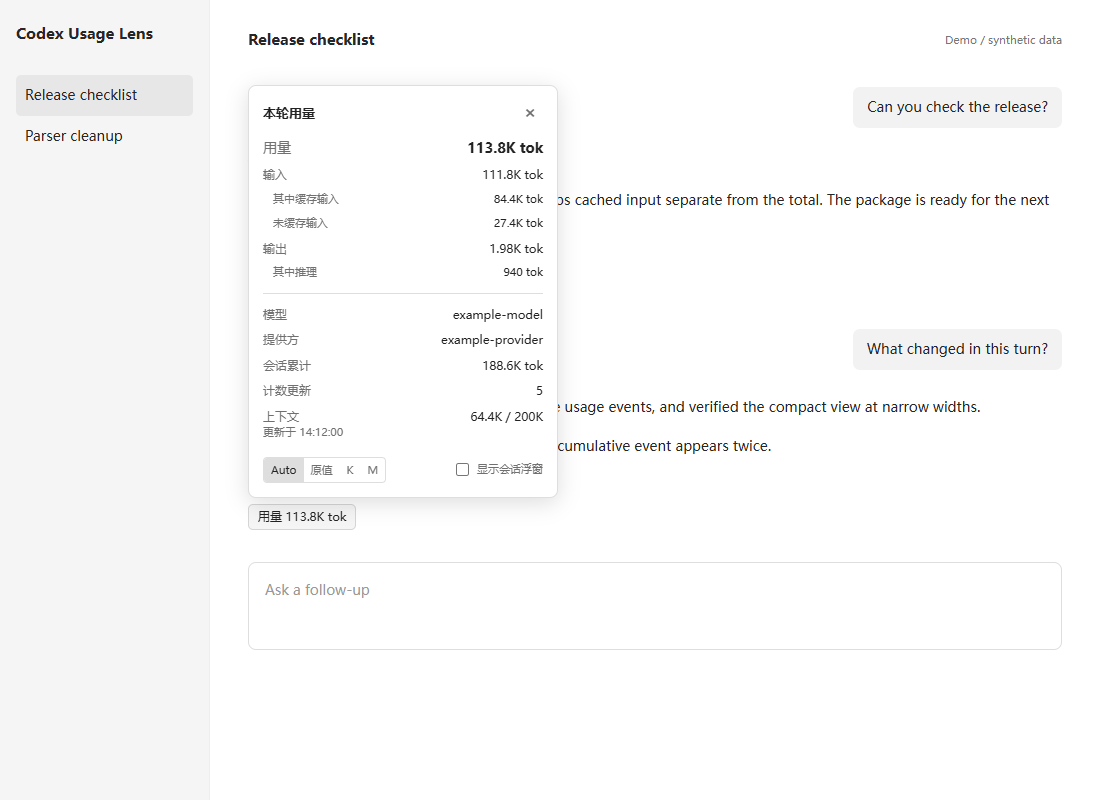
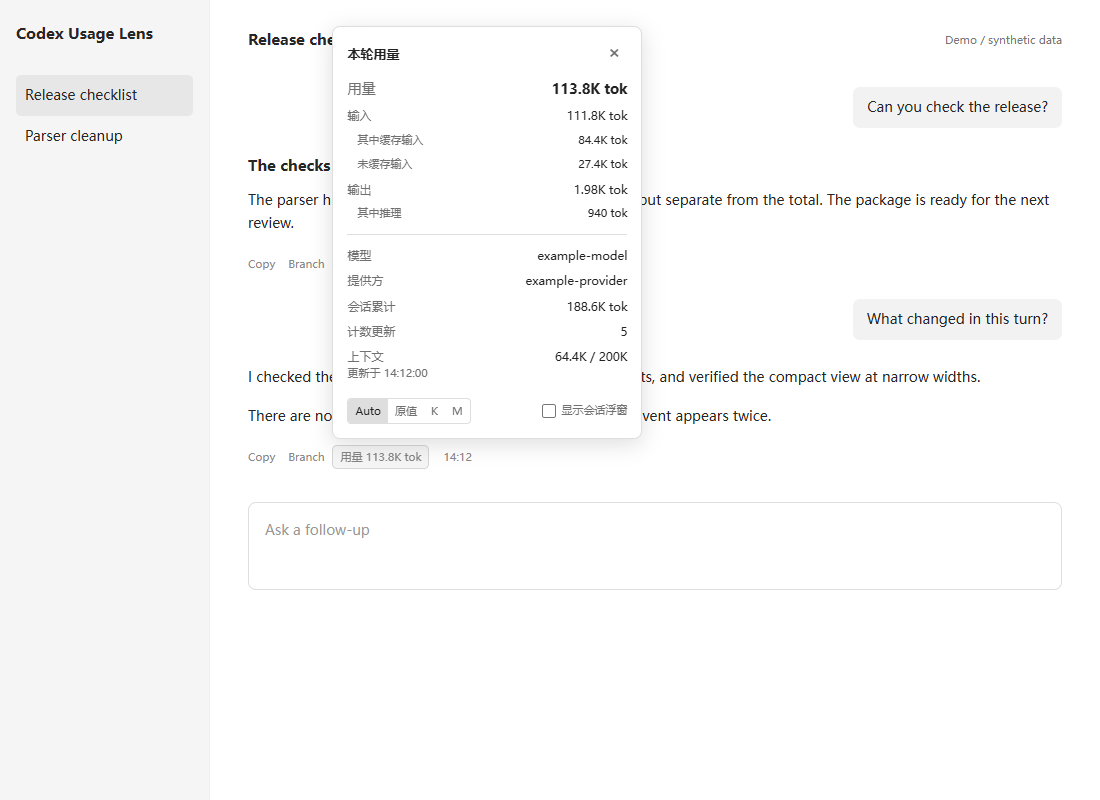
Fix usage meter popovers and inline action placement

diff --git a/README.zh-CN.md b/README.zh-CN.md
@@ -43,9 +43,11 @@ https://github.com/LoveYouEndless/codex-usage-lens
 
 ## 使用
 
-- 回复下方点击「用量」查看明细，按 Escape 或点击外部关闭。
+- 点击「分支到新聊天」右侧的「用量」查看明细，窄窗口放不下时自动使用独立行。
+  按 Escape 或点击外部关闭。
 - 支持自动单位、原值、K、M，保留单位选择。
 - 在明细中勾选「显示会话浮窗」，可拖动浮窗位置。
+- 会话浮窗的详情紧贴浮窗边缘，更新计数时保持展开。
 - 对 Codex 说「停止 Codex Usage Lens」可移除界面并停止助手。
 
 界面根据客户端语言显示中文或英文。

diff --git a/README.md b/README.md
@@ -52,10 +52,12 @@ not install a login service.
 
 ## Controls
 
-- Click **Usage** beneath a final reply to open details.
+- Click **Usage** after the native branch control to open details. Narrow action
+  rows keep Usage on a separate line.
 - Click outside the panel or press Escape to dismiss it.
 - Select Auto, Raw, K, or M for display units.
 - Enable **Show session meter** in the panel for a draggable floating total.
+- Meter details remain open during usage refreshes and stay next to the meter.
 - Ask **Stop Codex Usage Lens** to remove the UI and stop its helper.
 
 The interface uses Chinese for `zh` locales, and English otherwise.

diff --git a/CHANGELOG.md b/CHANGELOG.md
@@ -1,0 +1,16 @@
+# Changelog
+
+## 0.1.1
+
+- Restore visible checkboxes under Codex's global input reset.
+- Keep the meter button stable so polling no longer dismisses session details.
+- Anchor session details to the outer meter edge with a four-pixel gap.
+- Place Usage after the native branch controls when space permits, with a
+  separate-row fallback for narrow layouts.
+- Preserve focused panel controls through counter updates and skip unchanged
+  panel rebuilds.
+
+## 0.1.0
+
+- Initial independent release: per-turn usage buttons, local session statistics,
+  an optional draggable meter, and plugin marketplace installation.
